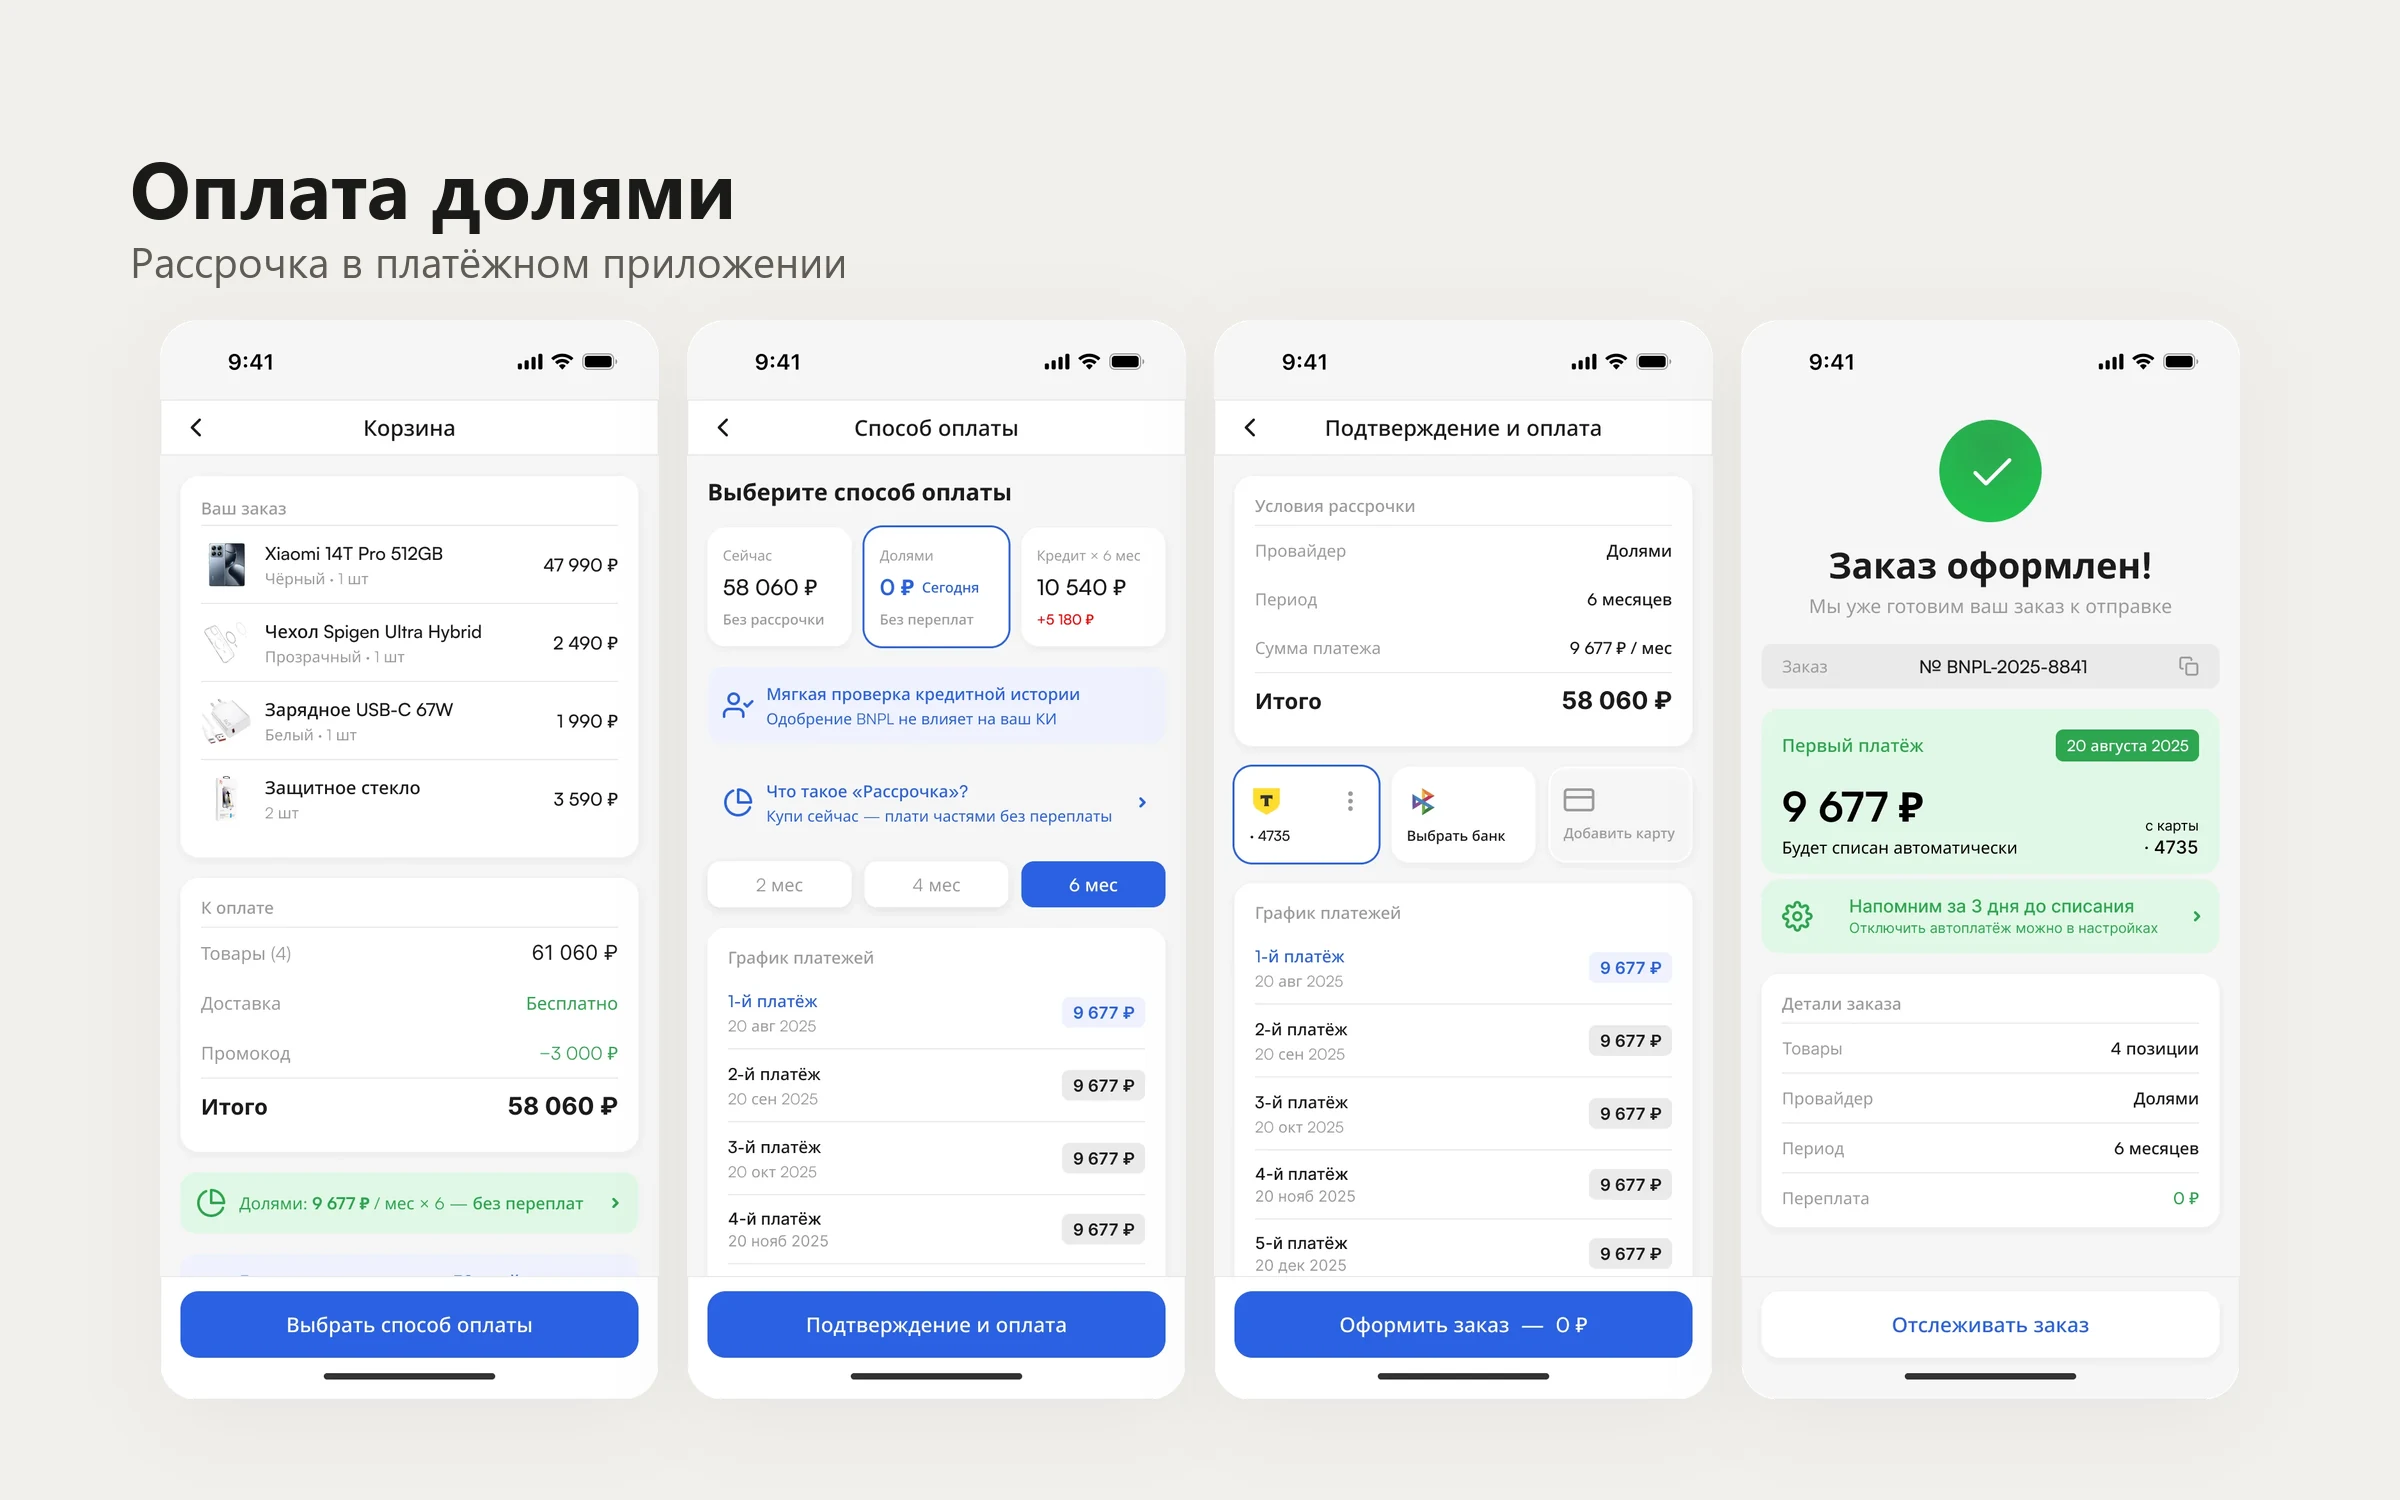
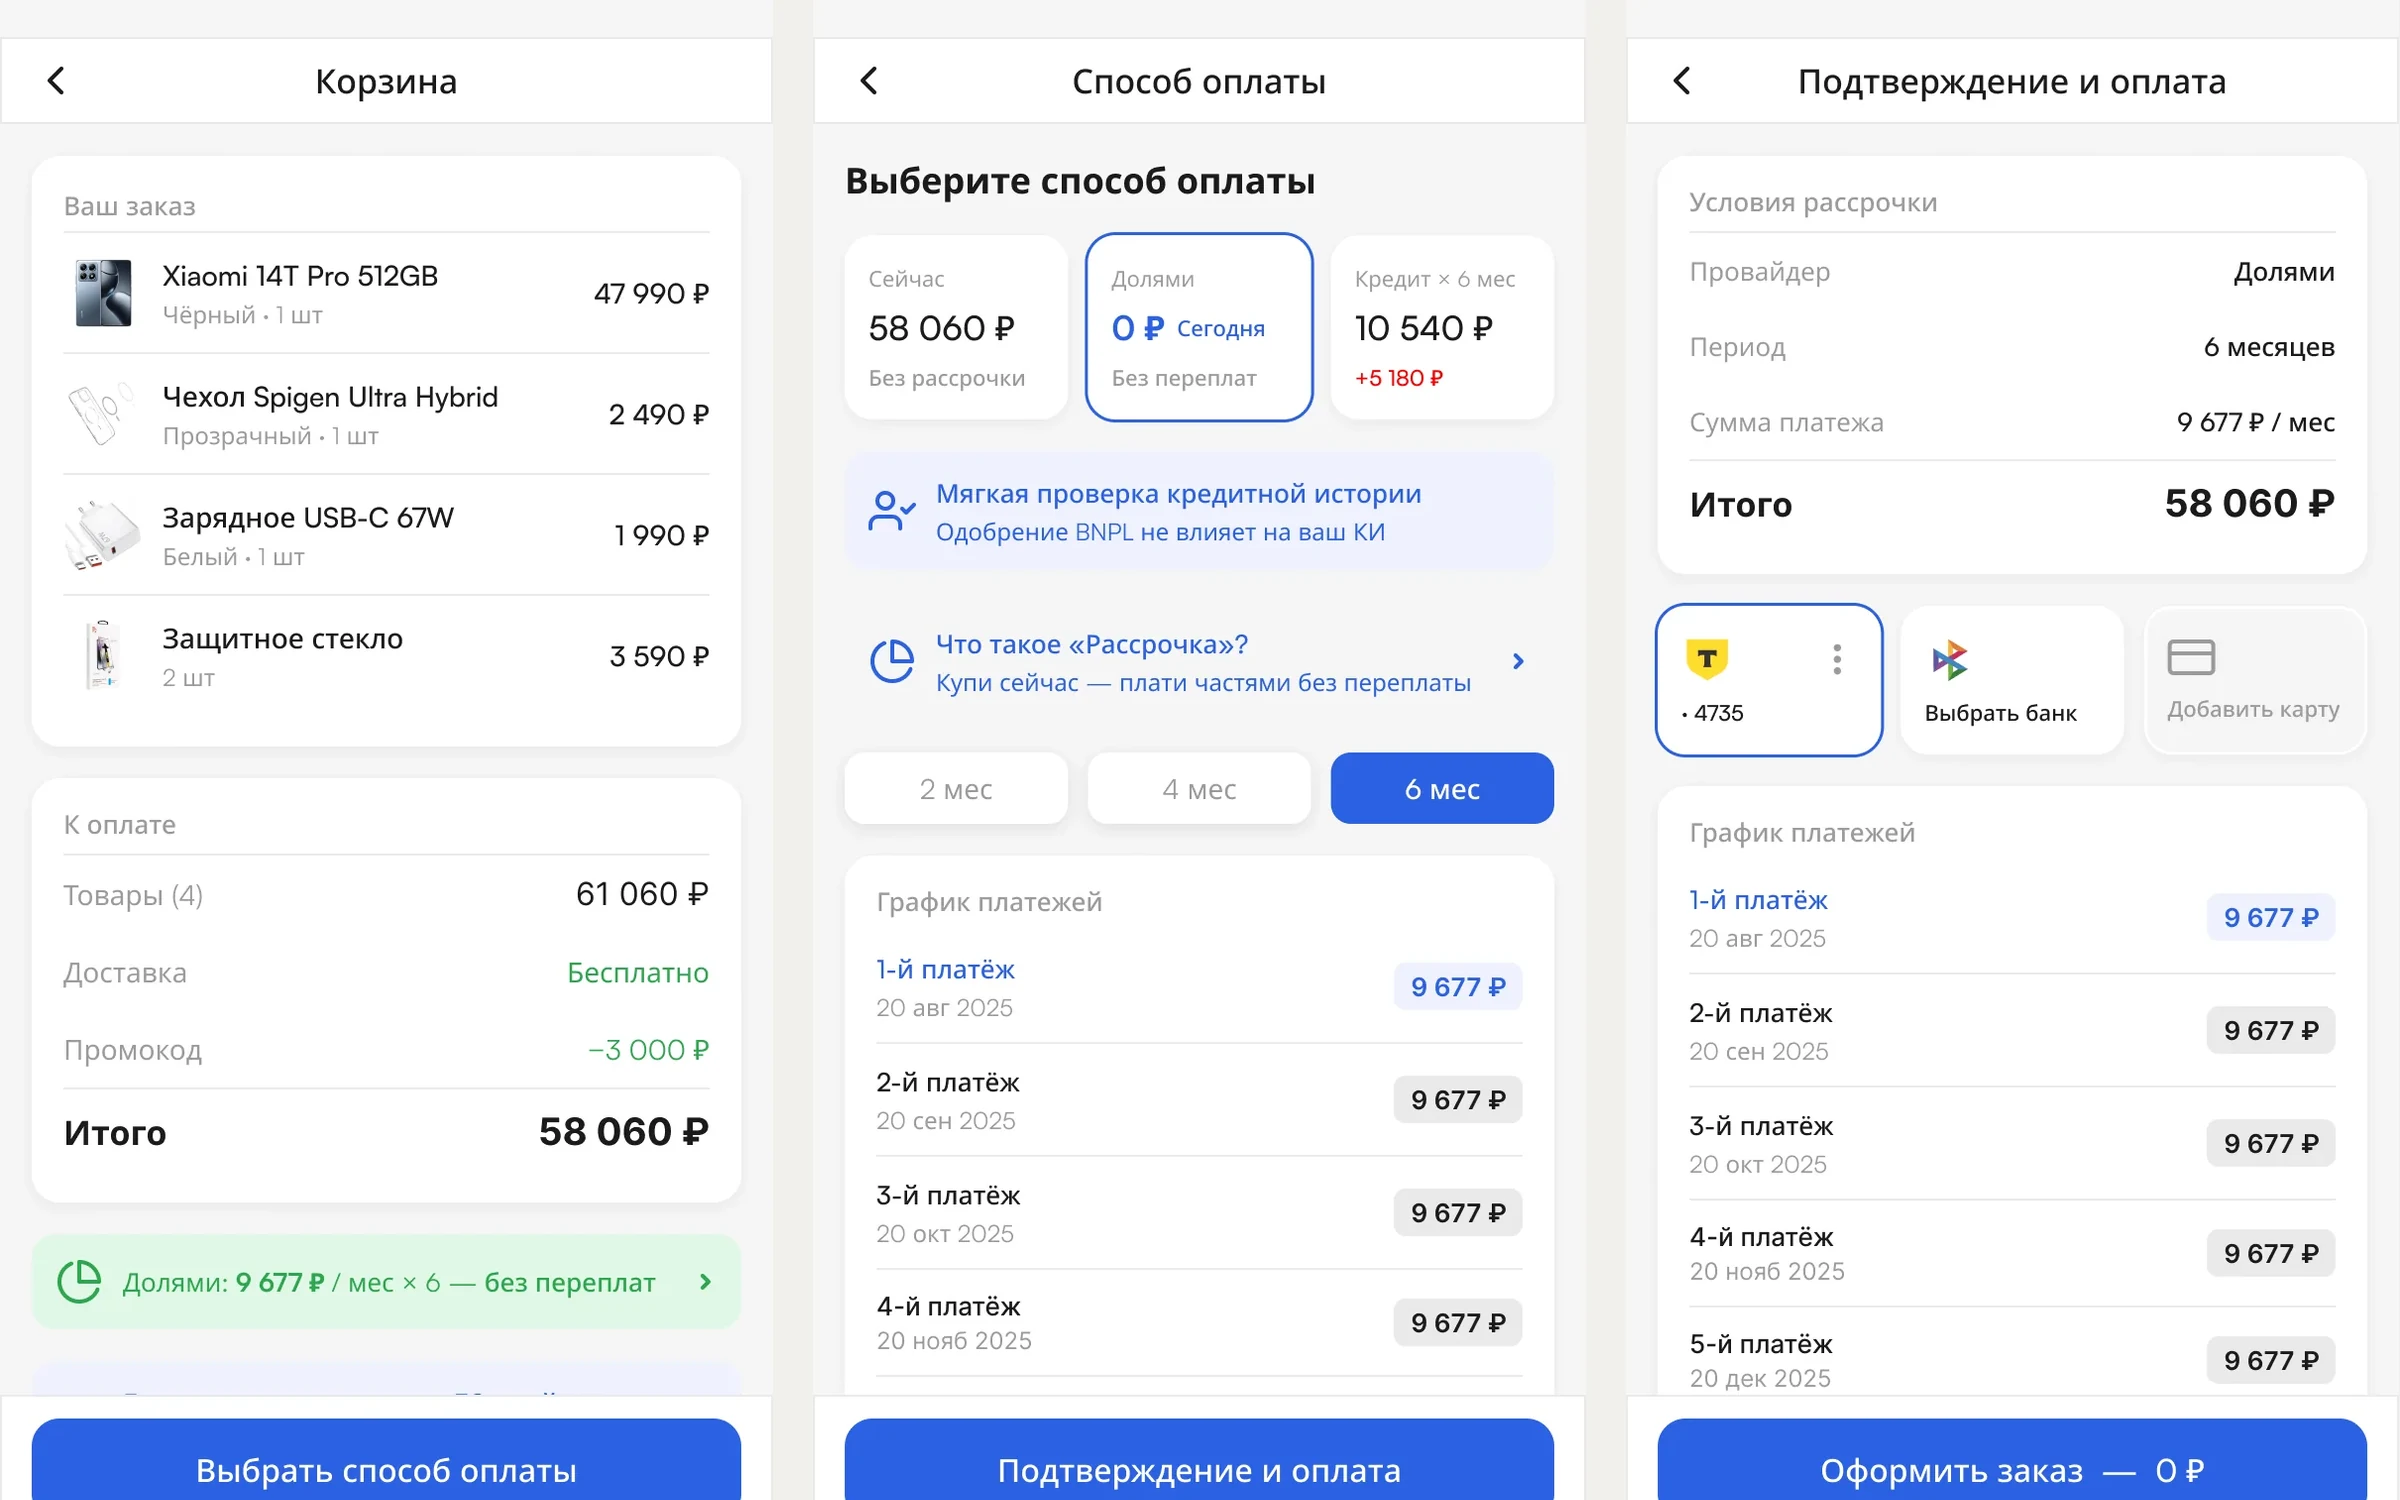
Обложки: только контент, во весь кадр и во всю ширину
- С обложек убраны название и описание, остался чистый контент.
- Кадр заполняется целиком: экраны упираются в края, лишнее срезано.
- На странице кейса обложка идёт во всю ширину без контейнера,
  высота ограничена 88vh.
- У черновиков ровная подложка до новых обложек.

diff --git a/src/app/work/[slug]/page.tsx b/src/app/work/[slug]/page.tsx
@@ -124,25 +124,23 @@ export default async function CasePage({ params }: PageProps) {
         </Container>
       </div>
 
-      {/* ---------- Ключевой визуал ---------- */}
+      {/* ---------- Обложка во всю ширину ---------- */}
       <div className={styles.coverWrap}>
-        <Container>
-          <Reveal>
-            {item.cover ? (
-              <Image
-                src={asset(item.cover.src)}
-                alt={item.cover.alt}
-                width={2400}
-                height={1500}
-                priority
-                sizes="(max-width: 1200px) 100vw, 1200px"
-                className={styles.cover}
-              />
-            ) : (
-              <BrowserFrame url={item.slug + ".product"} />
-            )}
-          </Reveal>
-        </Container>
+        {item.cover ? (
+          <Image
+            src={asset(item.cover.src)}
+            alt={item.cover.alt}
+            width={2400}
+            height={1500}
+            priority
+            sizes="100vw"
+            className={styles.cover}
+          />
+        ) : (
+          <Container>
+            <BrowserFrame url={item.slug + ".product"} />
+          </Container>
+        )}
       </div>
 
       {/* ---------- Тело кейса с навигацией ---------- */}

diff --git a/src/app/work/[slug]/case.module.css b/src/app/work/[slug]/case.module.css
@@ -135,7 +135,7 @@
 /* ---------- обложка ---------- */
 
 .coverWrap {
-  padding-block: clamp(48px, 6vw, 88px);
+  padding-bottom: clamp(48px, 6vw, 88px);
 }
 
 /* ---------- тело с навигацией ---------- */
@@ -323,5 +323,7 @@
   display: block;
   width: 100%;
   height: auto;
-  border-radius: var(--r-lg);
+  max-height: 88vh;
+  object-fit: cover;
+  object-position: center top;
 }
